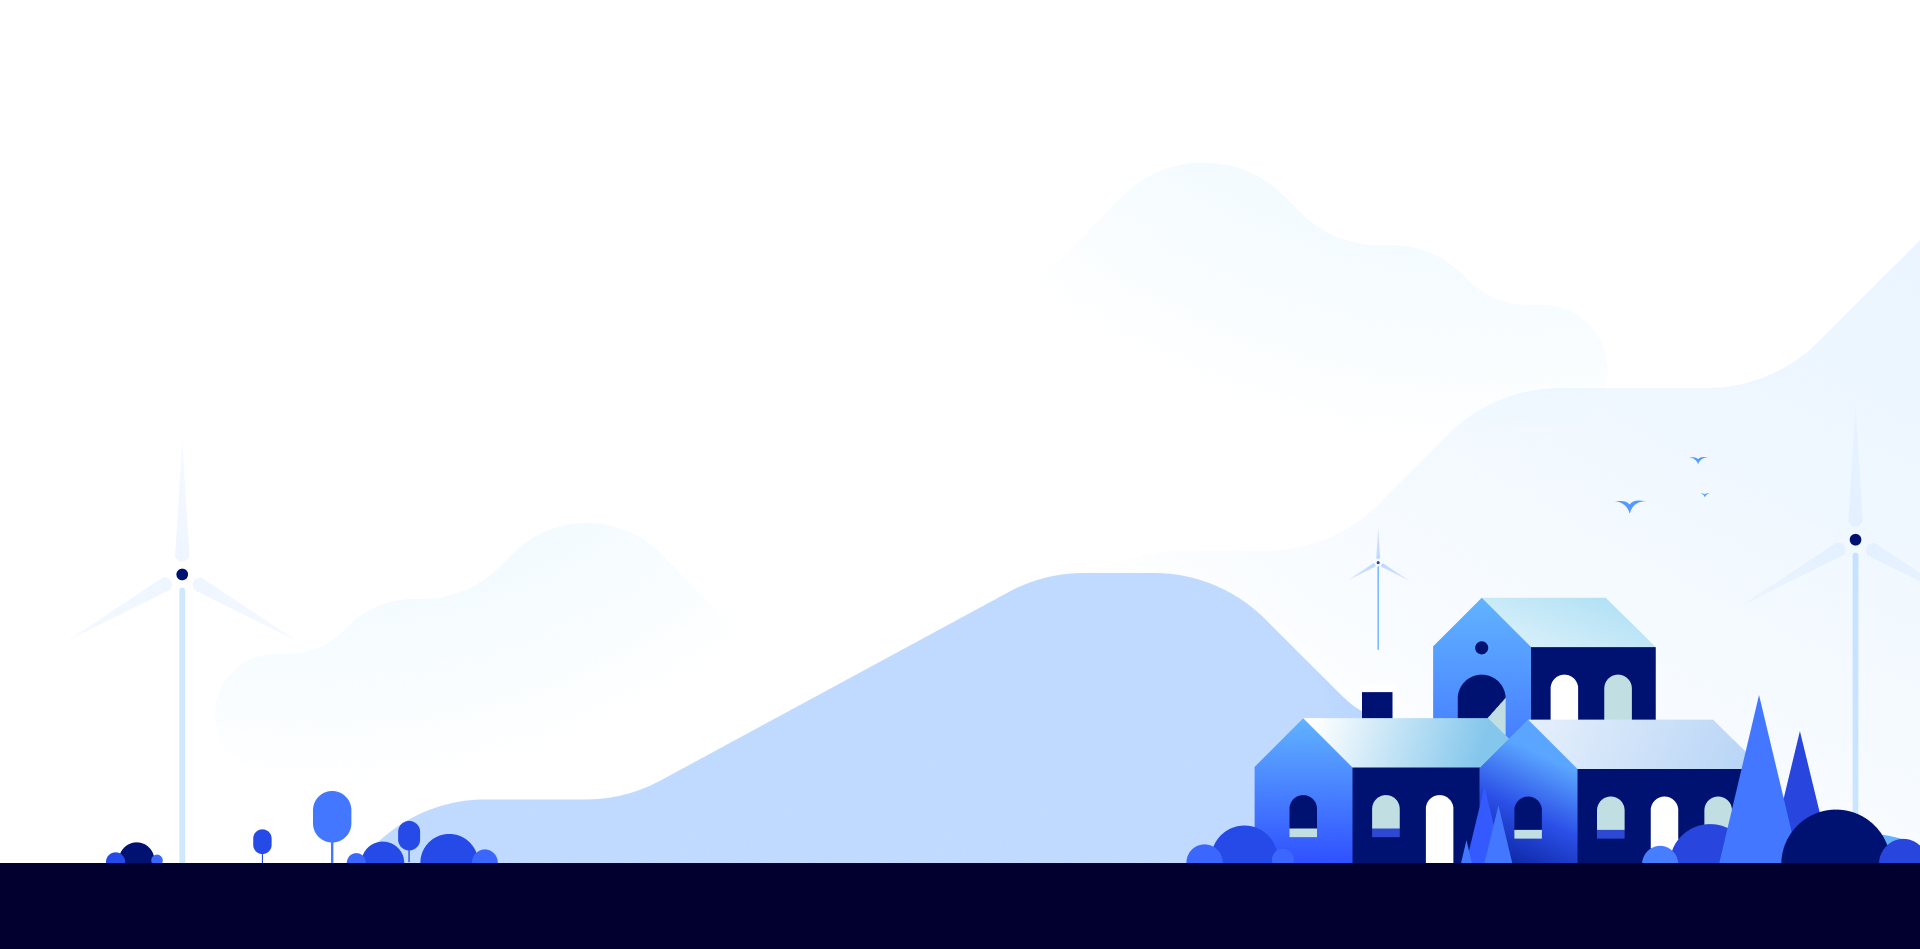
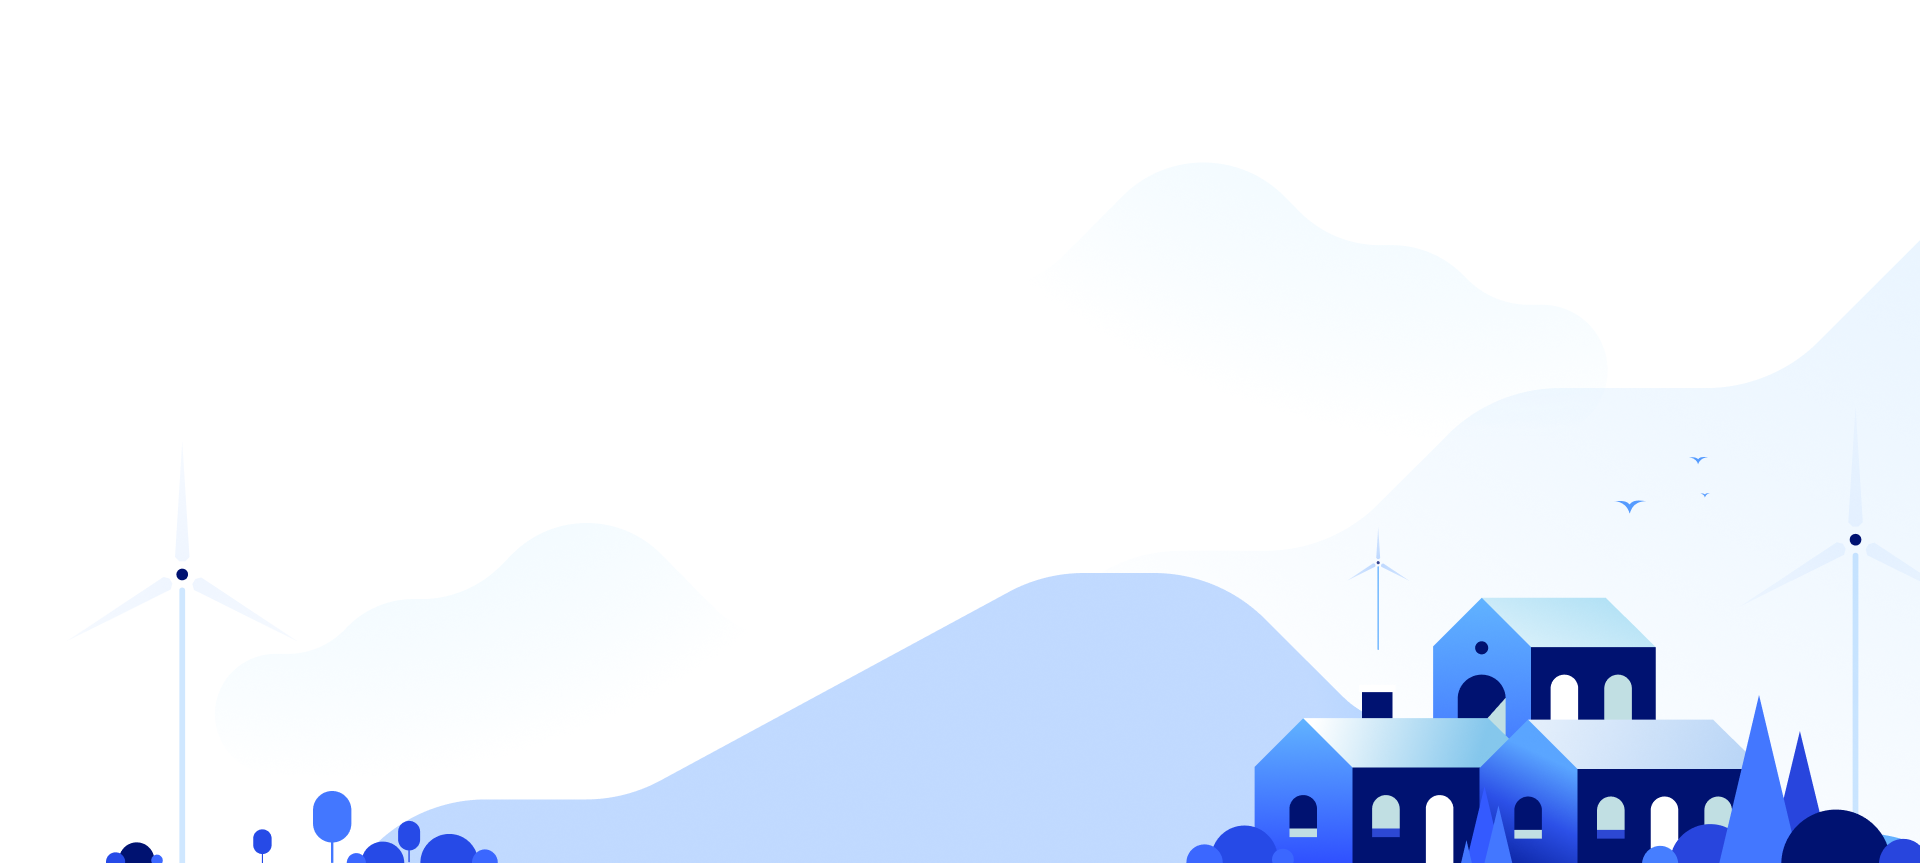
height responsive

Changed region(s): [[0.0, 0.6025, 1.0, 1.0], [0.9375, 0.6025, 0.9688, 0.6327]]

diff --git a/style.css b/style.css
@@ -12,10 +12,18 @@ body {
     #fff 0%,
     #88c6ff 100%
   );
+  display: flex;
+  flex-direction: column;
 }
 
 main {
-  background-image: url("./files/imgs/background.png");
+  background-image: url(./files/imgs/background.png);
+  min-height: 863px;
+  height: 100%;
+  background-position-y: bottom;
+  background-position-x: right;
+  background-repeat: no-repeat;
+  background-size: contain;
 }
 
 * {
@@ -33,11 +41,6 @@ h3 {
 .header {
   padding: 30px;
   margin-bottom: 30px;
-}
-
-main {
-  height: 100%;
-  max-height: 863px;
 }
 
 /* content */
